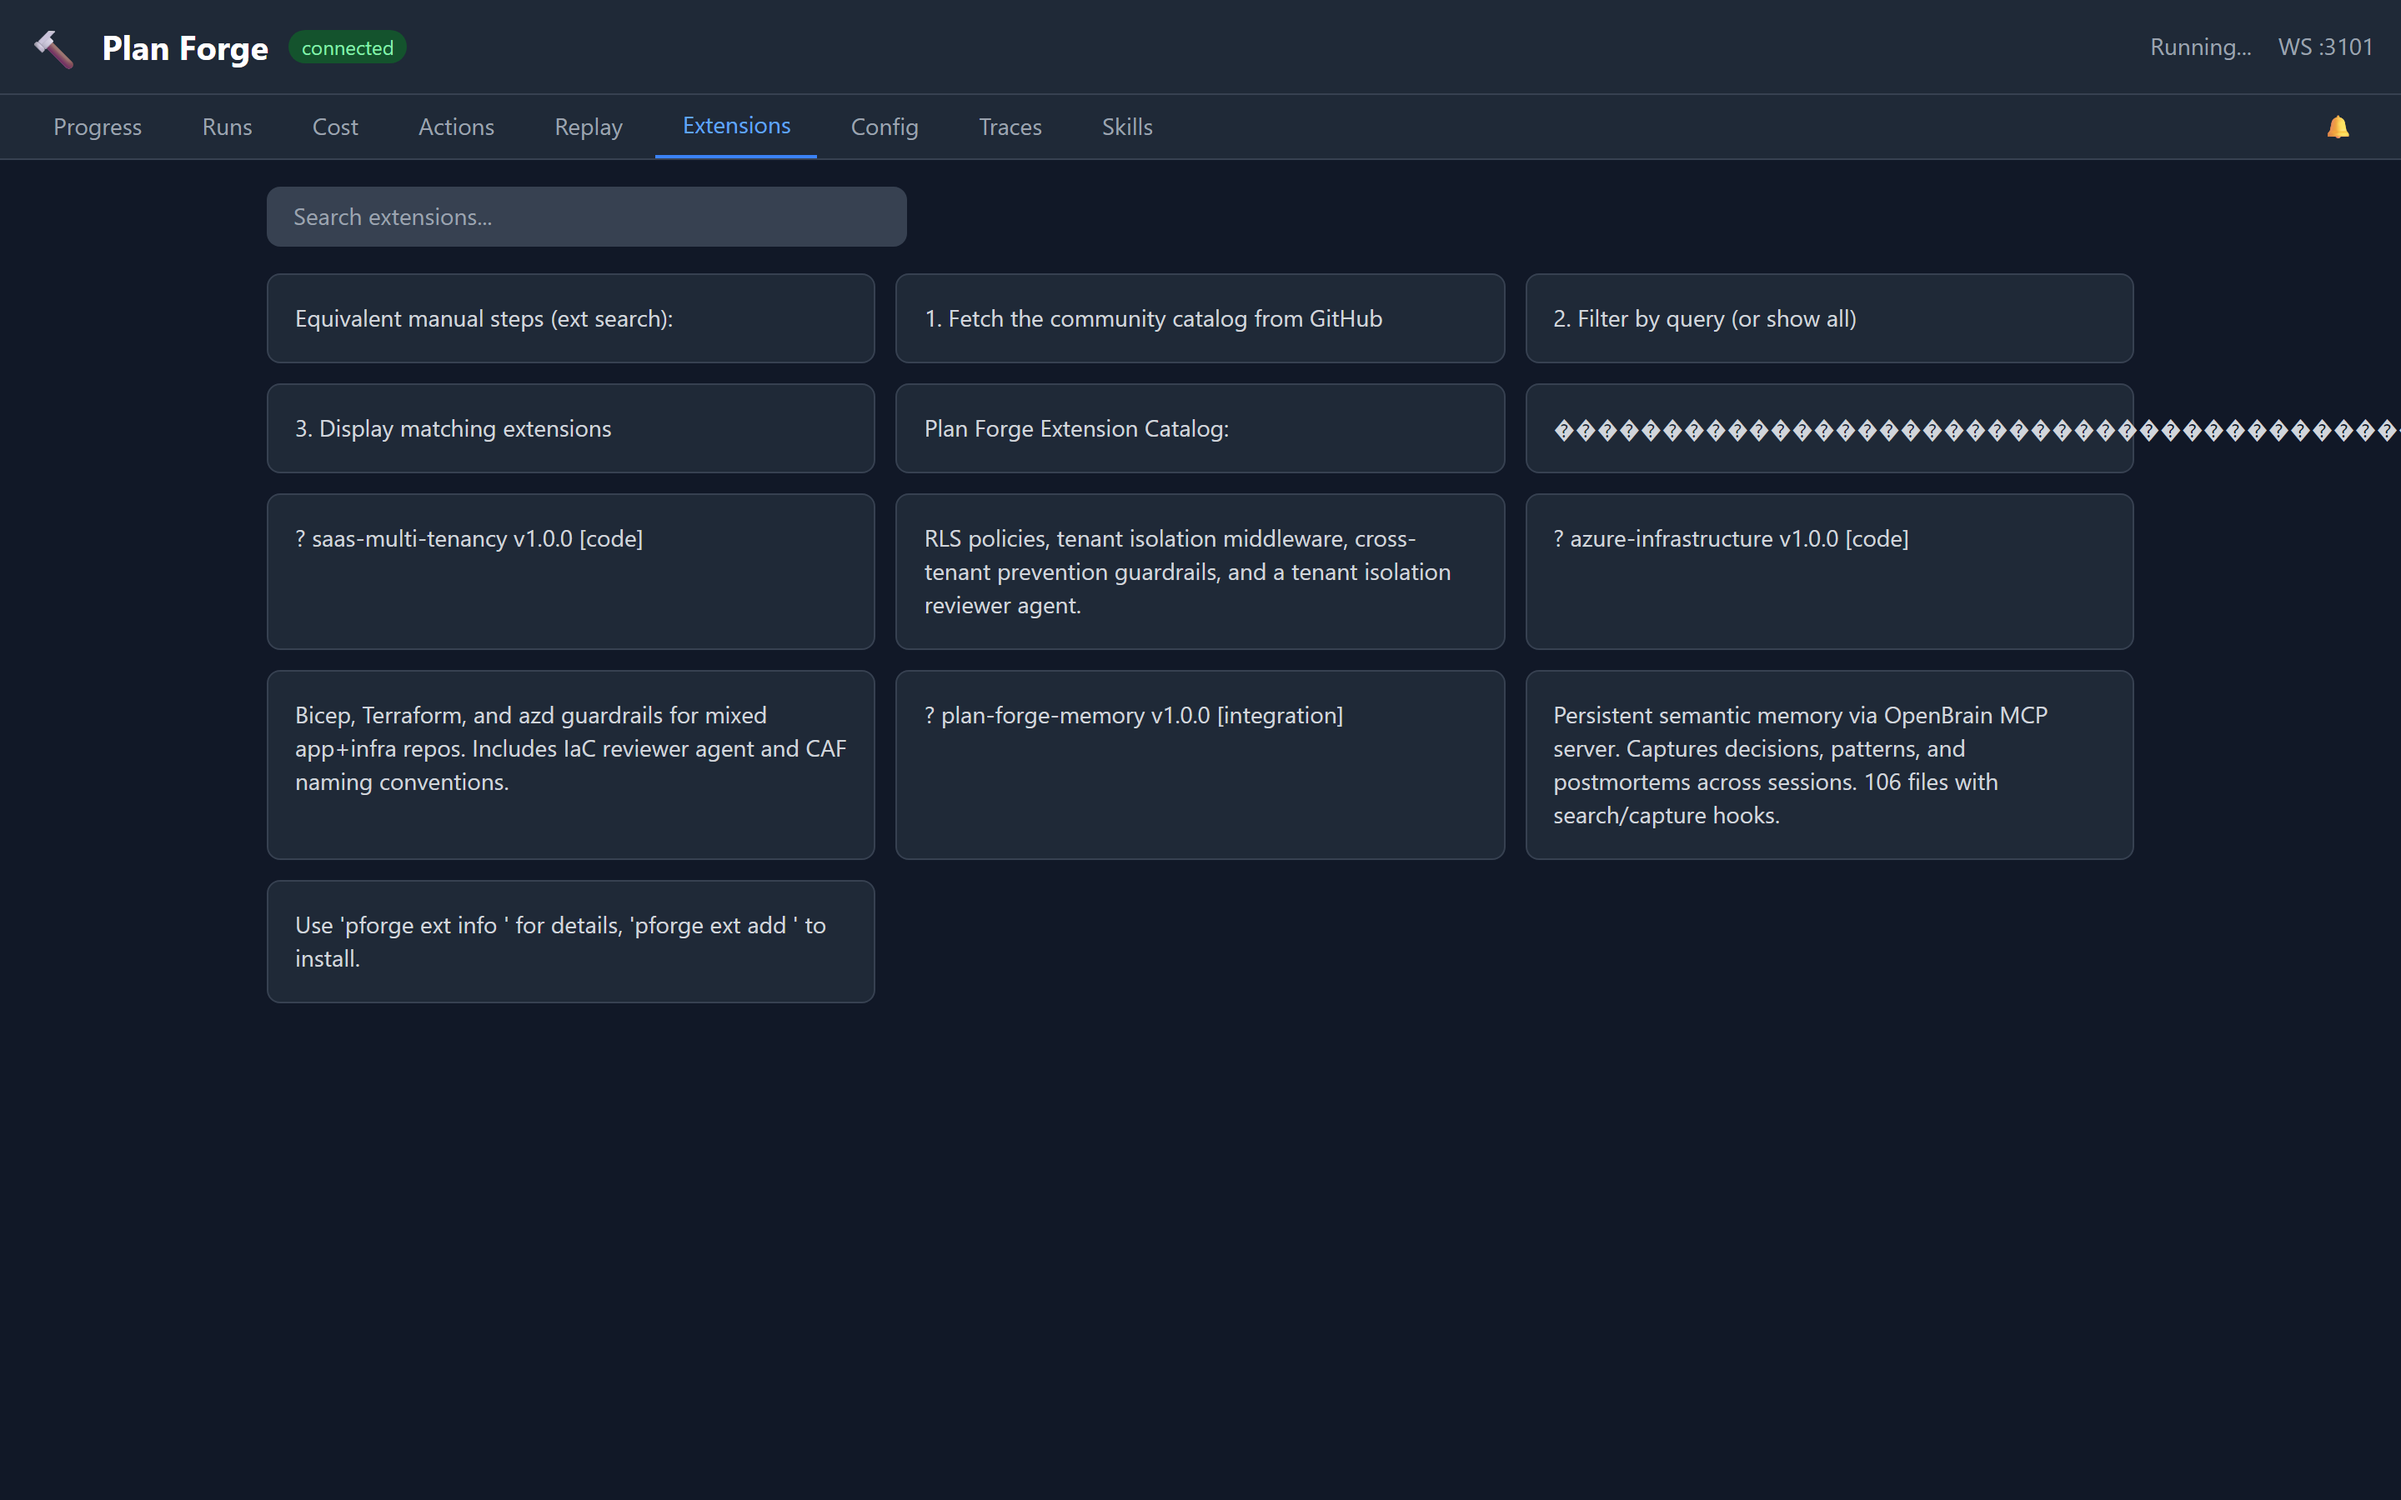
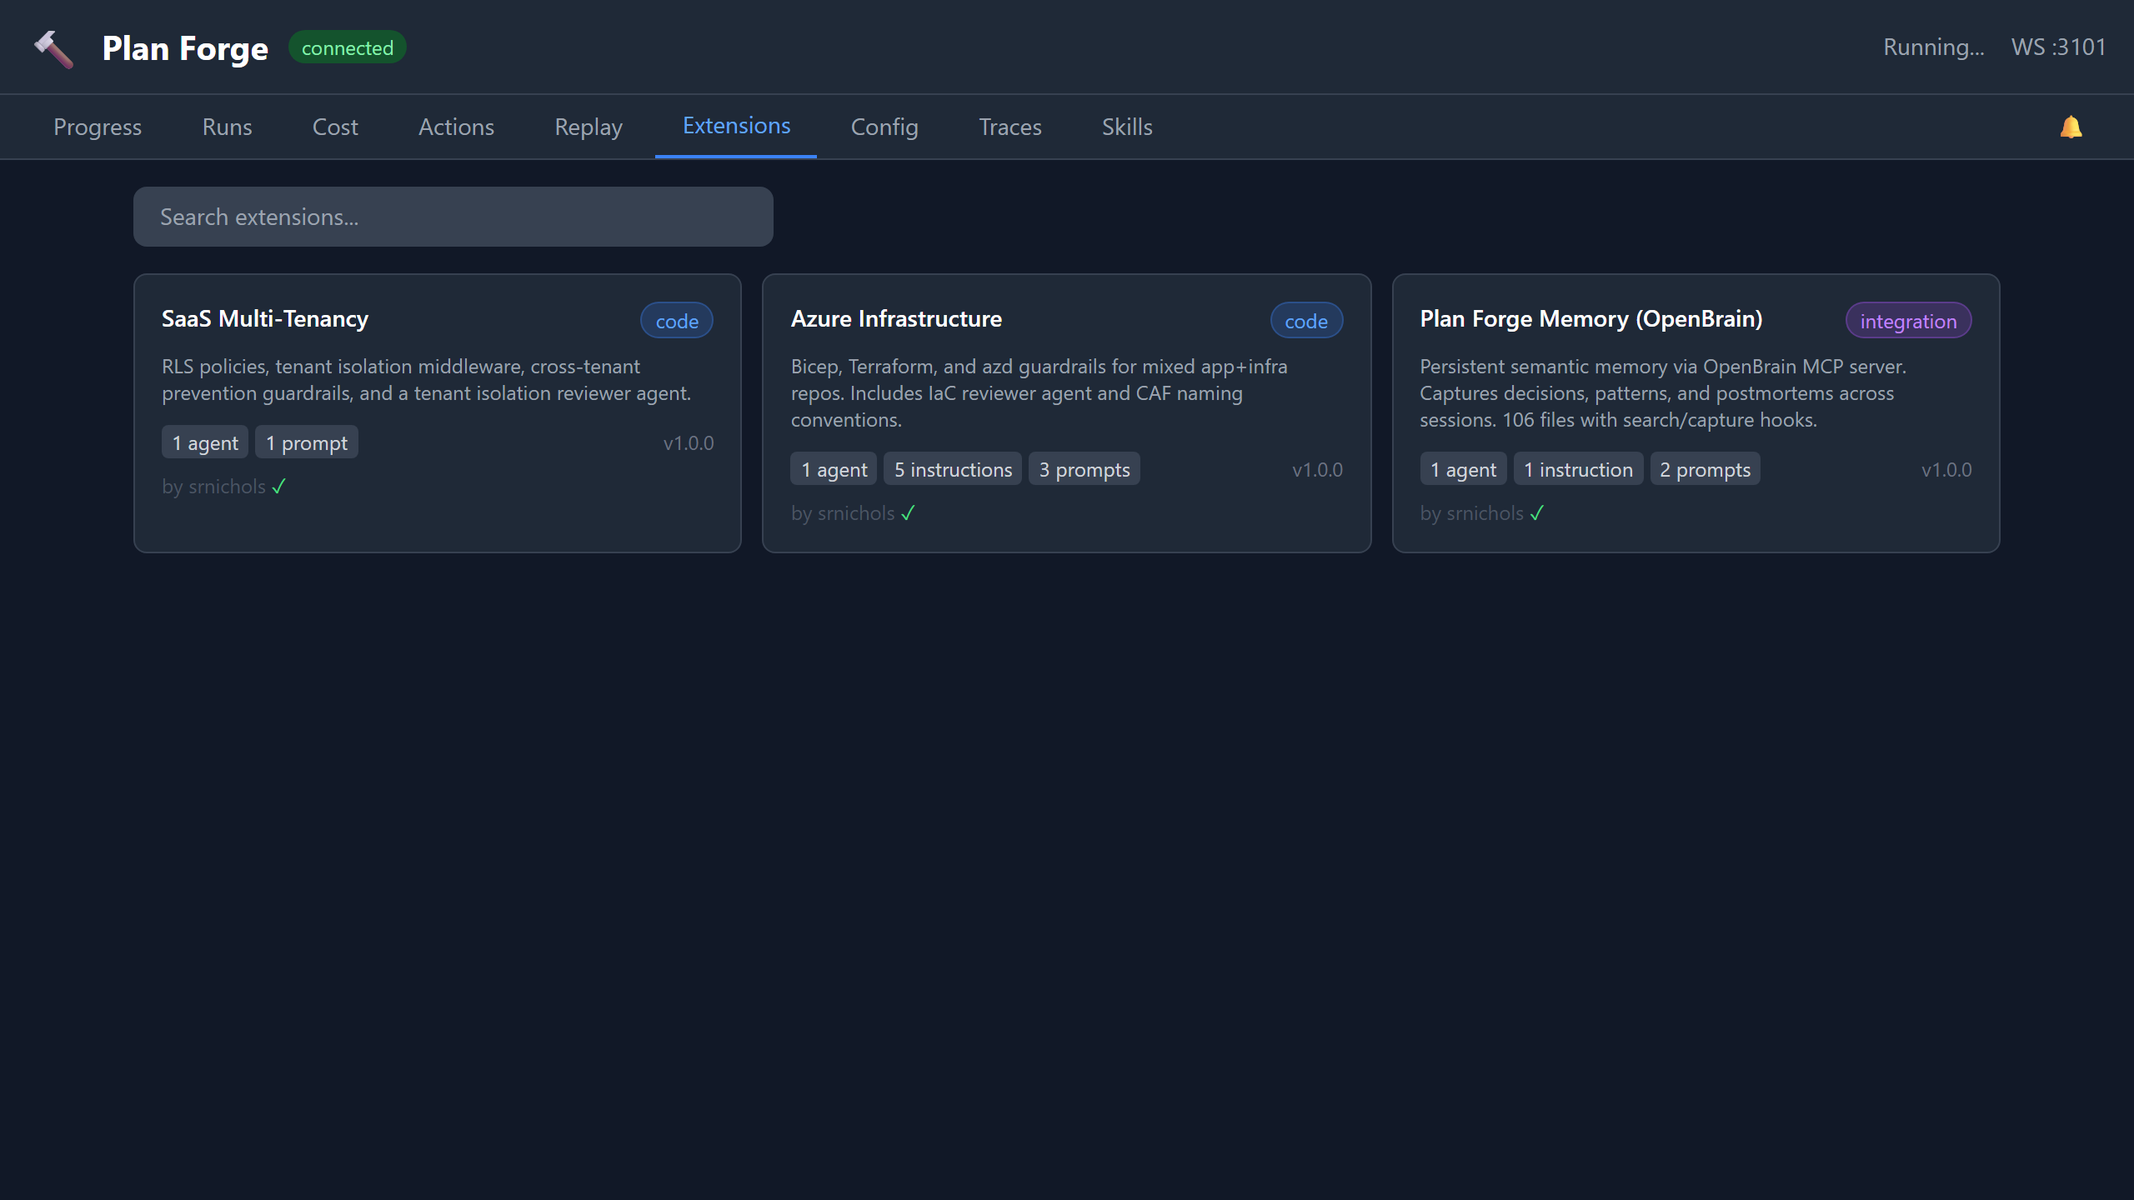
fix(dashboard): structured extension cards + smaller screenshots
- Add GET /api/extensions endpoint serving catalog.json as structured JSON
- Rewrite extension rendering with proper cards: name, description,
  category badge (code/integration), provides badges, version, author
- Falls back to CLI text parsing if JSON endpoint unavailable
- Resize all screenshots from 1440x900 to 1280x720 (24% smaller files)
- Fix server.mjs to use named imports (existsSync, readFileSync, join)

diff --git a/pforge-mcp/dashboard/app.js b/pforge-mcp/dashboard/app.js
@@ -459,15 +459,25 @@ let catalogData = [];
 
 async function loadExtensions() {
   try {
-    const res = await fetch(`${API_BASE}/api/tool/ext`, {
-      method: "POST",
-      headers: { "Content-Type": "application/json" },
-      body: JSON.stringify({ args: "search" }),
-    });
-    const data = await res.json();
-    // Parse the CLI output into cards (best-effort)
-    const output = data.output || "";
-    catalogData = output.split("\n").filter((l) => l.trim()).map((l) => ({ raw: l }));
+    // Try structured JSON endpoint first, fall back to CLI
+    let items = [];
+    try {
+      const res = await fetch(`${API_BASE}/api/extensions`);
+      if (res.ok) items = await res.json();
+    } catch { /* fall through */ }
+
+    if (items.length > 0) {
+      catalogData = items;
+    } else {
+      const res = await fetch(`${API_BASE}/api/tool/ext`, {
+        method: "POST",
+        headers: { "Content-Type": "application/json" },
+        body: JSON.stringify({ args: "search" }),
+      });
+      const data = await res.json();
+      const output = data.output || "";
+      catalogData = output.split("\n").filter((l) => l.trim()).map((l) => ({ raw: l }));
+    }
     renderExtensions(catalogData);
   } catch {
     document.getElementById("ext-cards").innerHTML = '<div class="text-gray-500 text-center py-12">Failed to load catalog</div>';
@@ -480,16 +490,45 @@ function renderExtensions(items) {
     container.innerHTML = '<div class="text-gray-500 text-center py-12">No extensions found</div>';
     return;
   }
-  container.innerHTML = items.map((ext) => `
-    <div class="bg-gray-800 rounded-lg p-4 border border-gray-700 hover:border-gray-600 transition">
-      <p class="text-sm text-gray-300">${ext.raw}</p>
-    </div>
-  `).join("");
+  container.innerHTML = items.map((ext) => {
+    // Structured catalog JSON item
+    if (ext.name && ext.description) {
+      const provides = ext.provides || {};
+      const badges = [];
+      if (provides.agents) badges.push(`${provides.agents} agent${provides.agents > 1 ? "s" : ""}`);
+      if (provides.instructions) badges.push(`${provides.instructions} instruction${provides.instructions > 1 ? "s" : ""}`);
+      if (provides.prompts) badges.push(`${provides.prompts} prompt${provides.prompts > 1 ? "s" : ""}`);
+      if (provides.skills) badges.push(`${provides.skills} skill${provides.skills > 1 ? "s" : ""}`);
+      const tagColor = ext.category === "integration" ? "purple" : "blue";
+      return `
+        <div class="bg-gray-800 rounded-lg p-4 border border-gray-700 hover:border-gray-500 transition">
+          <div class="flex items-start justify-between mb-2">
+            <h3 class="font-semibold text-white text-sm">${ext.name}</h3>
+            <span class="text-xs px-2 py-0.5 rounded-full bg-${tagColor}-500/20 text-${tagColor}-400 border border-${tagColor}-500/30">${ext.category || "code"}</span>
+          </div>
+          <p class="text-xs text-gray-400 mb-3">${ext.description}</p>
+          <div class="flex items-center justify-between">
+            <div class="flex gap-1 flex-wrap">${badges.map((b) => `<span class="text-xs bg-gray-700 text-gray-300 px-1.5 py-0.5 rounded">${b}</span>`).join("")}</div>
+            <span class="text-xs text-gray-500">v${ext.version || "1.0.0"}</span>
+          </div>
+          ${ext.author ? `<p class="text-xs text-gray-600 mt-2">by ${ext.author}${ext.verified ? ' <span class="text-green-400">✓</span>' : ""}</p>` : ""}
+        </div>`;
+    }
+    // Fallback: raw CLI text
+    return `
+      <div class="bg-gray-800 rounded-lg p-4 border border-gray-700 hover:border-gray-600 transition">
+        <p class="text-sm text-gray-300">${ext.raw}</p>
+      </div>`;
+  }).join("");
 }
 
 function filterExtensions() {
   const q = document.getElementById("ext-search").value.toLowerCase();
-  renderExtensions(q ? catalogData.filter((e) => e.raw.toLowerCase().includes(q)) : catalogData);
+  renderExtensions(q ? catalogData.filter((e) =>
+    (e.name || e.raw || "").toLowerCase().includes(q) ||
+    (e.description || "").toLowerCase().includes(q) ||
+    (e.tags || []).some((t) => t.includes(q))
+  ) : catalogData);
 }
 
 window.filterExtensions = filterExtensions;
